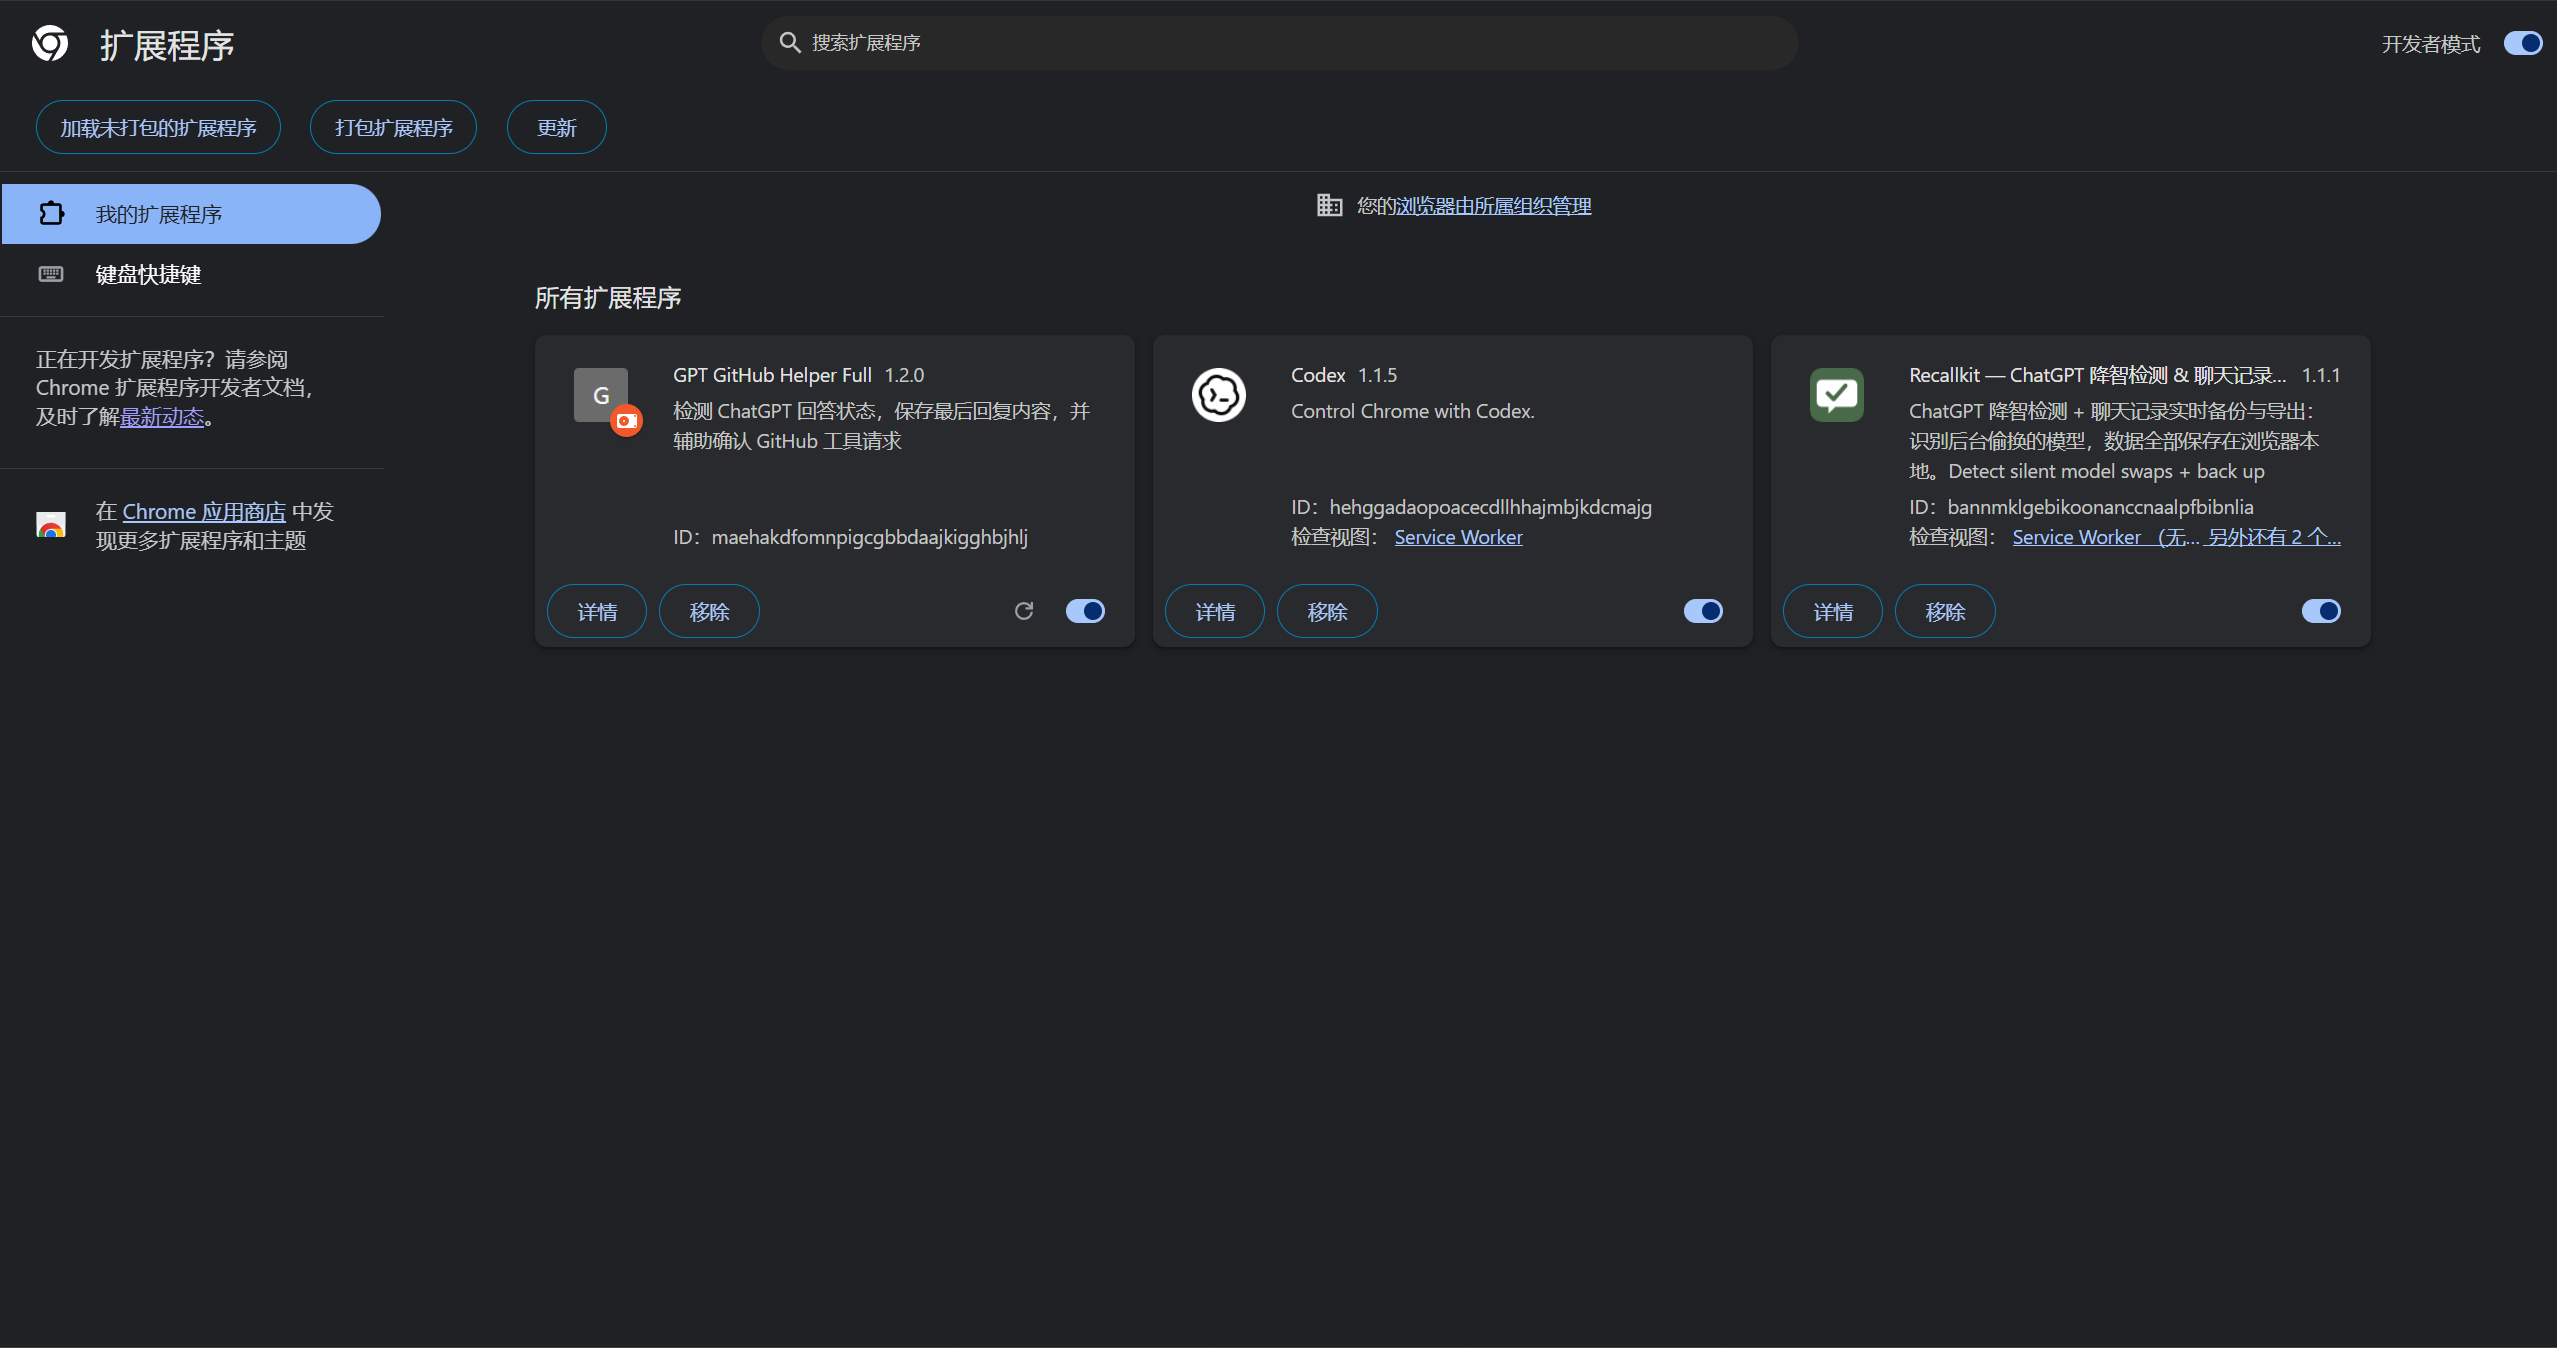
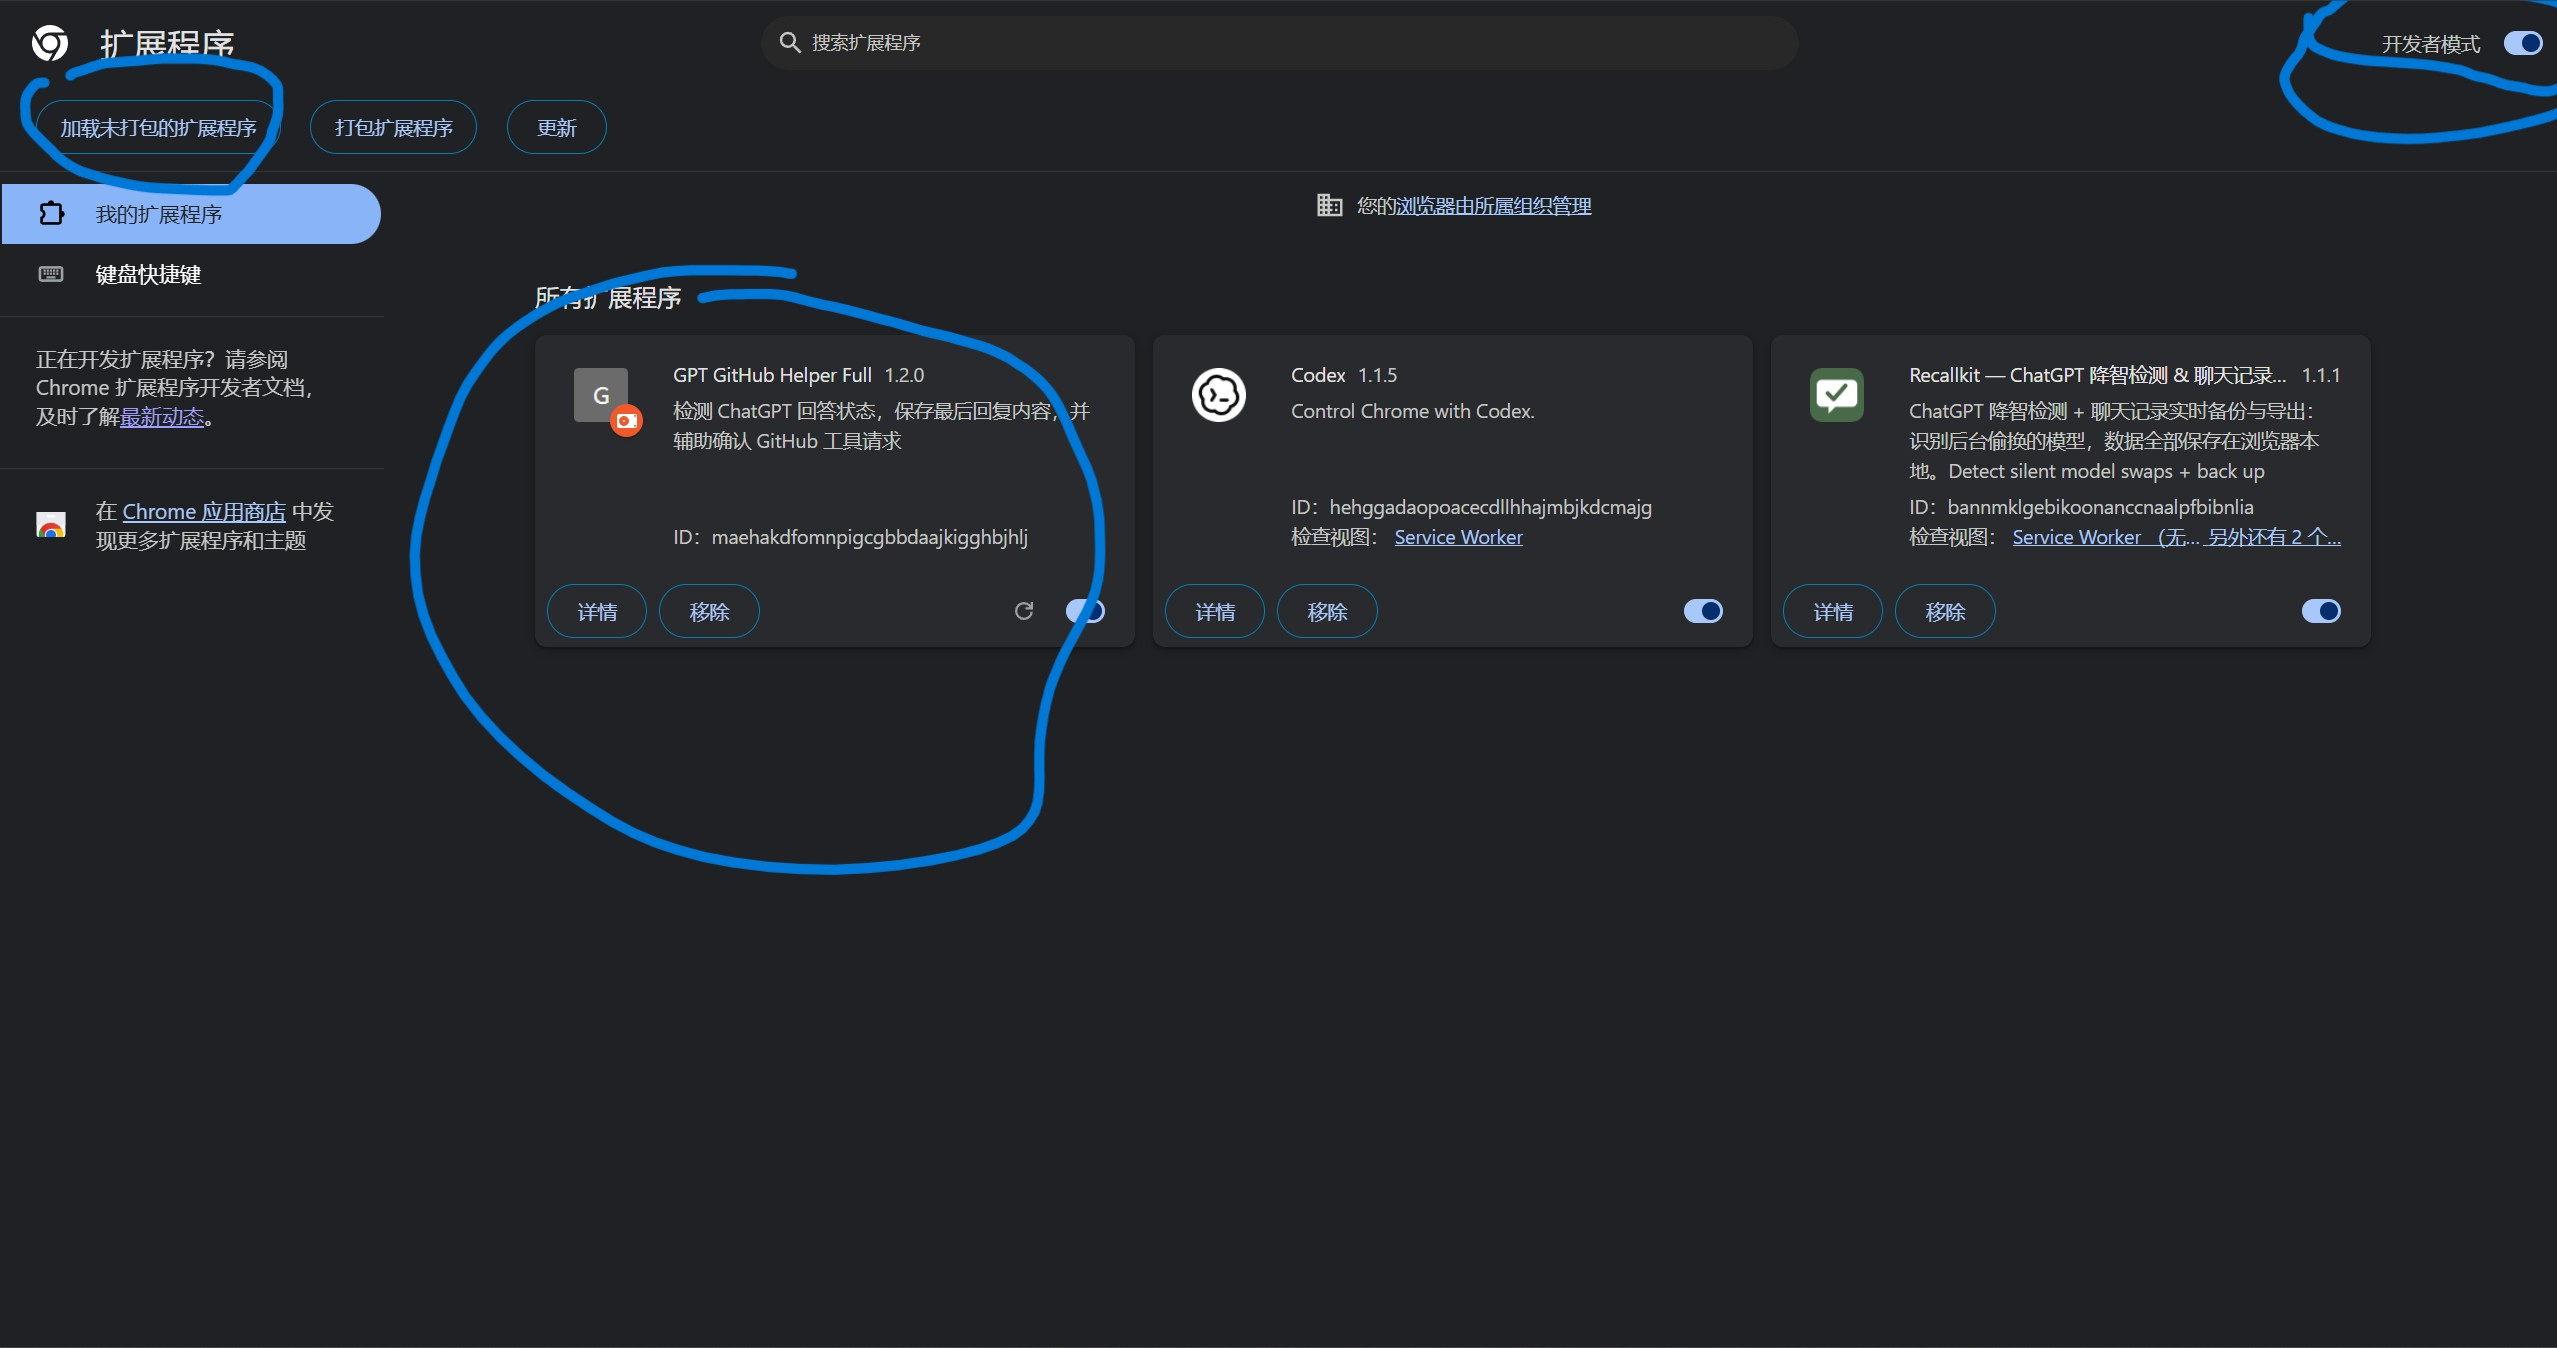
Use only images2 screenshots in README

diff --git a/README.md b/README.md
@@ -120,11 +120,17 @@ chrome-extension
 
 注意：选择的是 `chrome-extension` 文件夹，不是整个压缩包。
 
+![打开 Chrome 扩展开发者模式](images2/开发者-插件.jpg)
+
+![访问插件](images2/访问插件.jpg)
+
 ---
 
 ## 第三步：使用
 
 打开 ChatGPT 页面。
+
+![插件运行入口示例](images2/1780904034192.jpg)
 
 当 GPT 正在回答时，标题会变成：
 
@@ -149,6 +155,8 @@ local-server/gpt_replies/
 ```text
 local-server/logs/
 ```
+
+![GPT 指示灯](images2/gpt指示灯.jpg)
 
 ---
 
@@ -193,6 +201,8 @@ build/
 ```
 
 其他危险词可在 `chrome-extension/config.js` 的 `dangerWords` 中按需开启。
+
+![GitHub 更新记录示例](images2/github更新.jpg)
 
 ---
 
@@ -248,34 +258,6 @@ subprocess.Popen([
 ```
 
 这样 GPT 回答结束后，会自动调用你的程序，并把 Markdown 文件路径传进去。
-
----
-
-## 截图
-
-### 插件安装与访问
-
-![打开 Chrome 扩展开发者模式](images2/开发者-插件.jpg)
-
-![访问插件](images2/访问插件.jpg)
-
-### 运行状态
-
-![GPT 指示灯](images2/gpt指示灯.jpg)
-
-![输入继续并发送](images1/输入继续-发送.png)
-
-### 示例页面
-
-![订阅页面示例](images1/pro-订阅.png)
-
-![文件测试示例](images1/mimo该文件测试.png)
-
-![本地页面示例](images2/1780904034192.jpg)
-
-### GitHub 更新示例
-
-![GitHub 更新记录示例](images2/github更新.jpg)
 
 ---
 